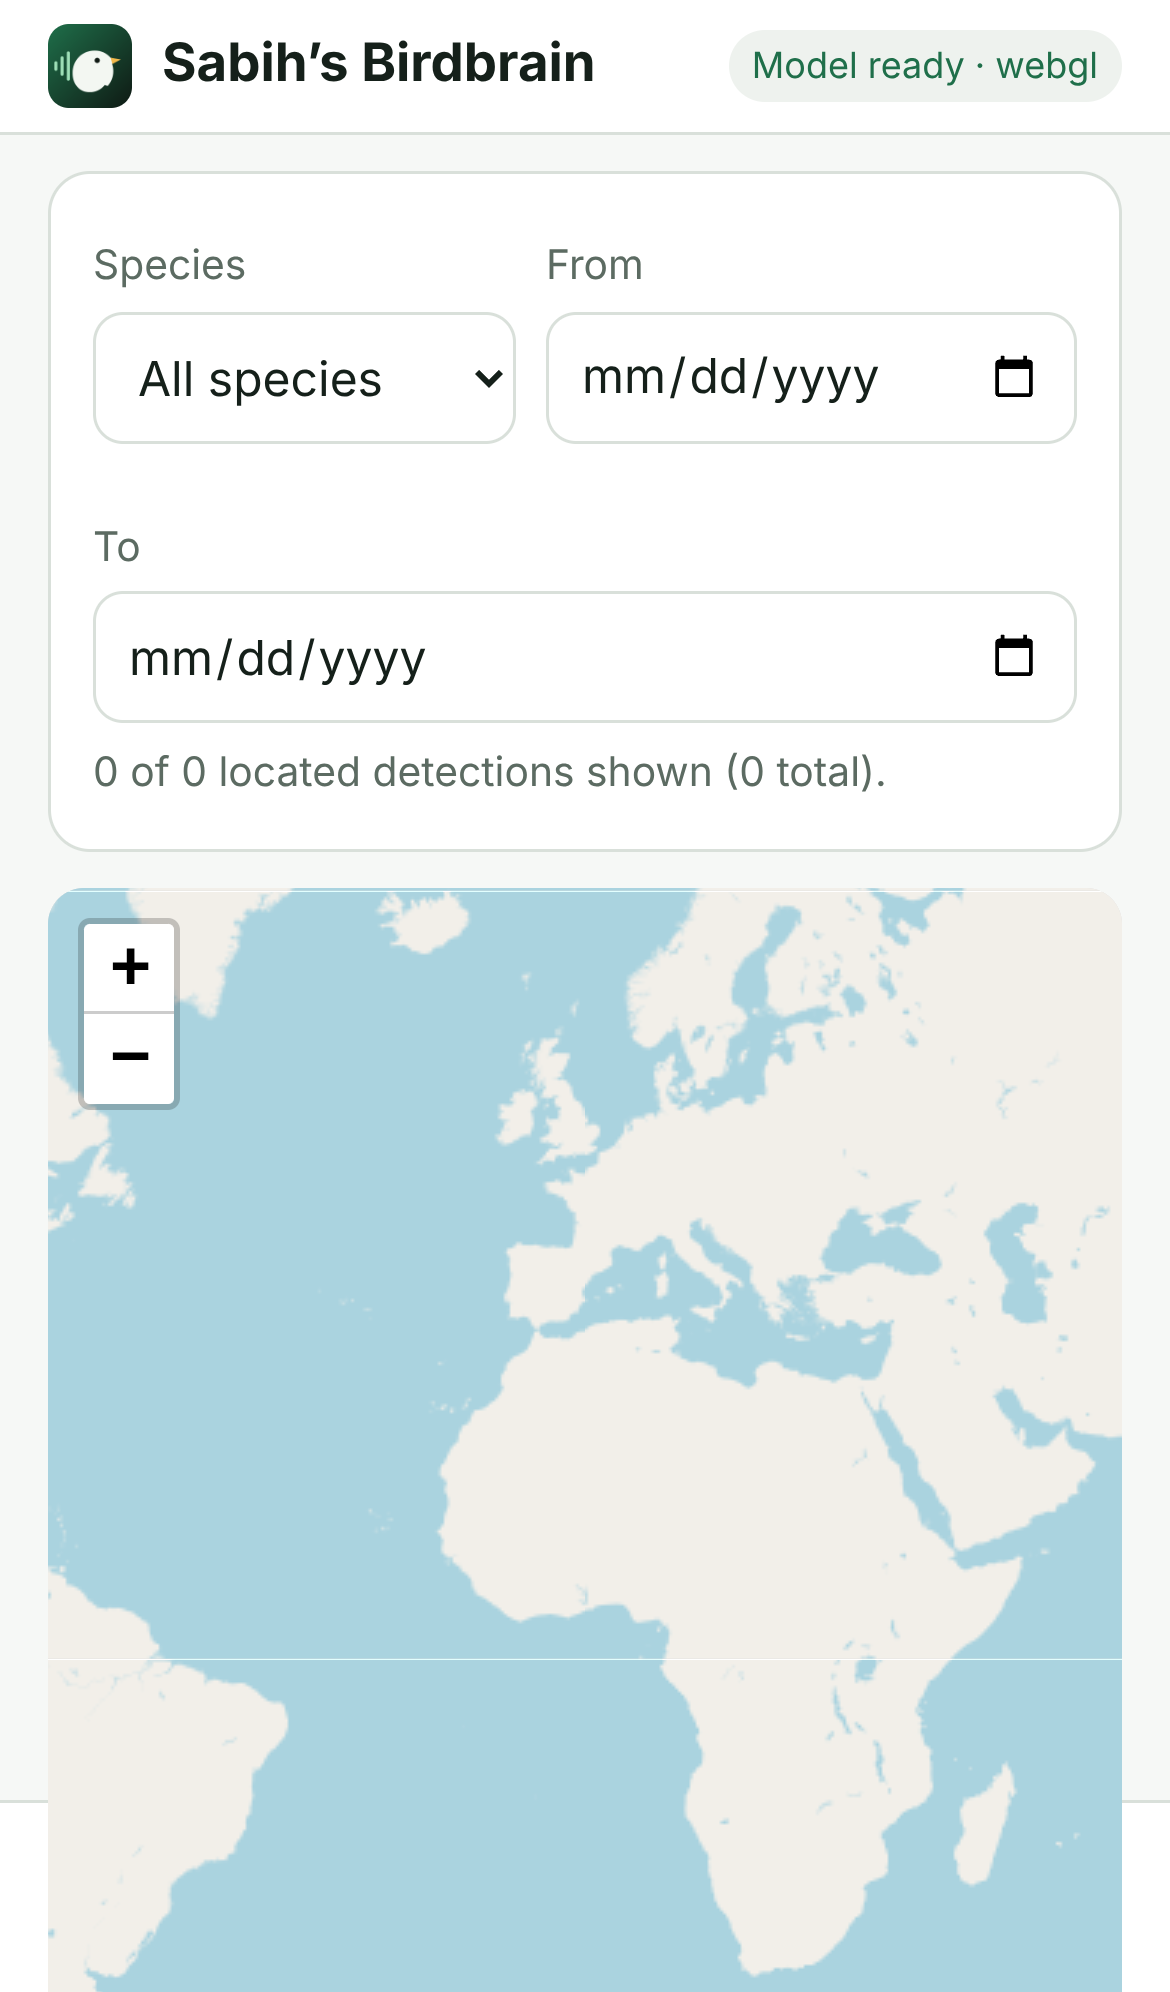
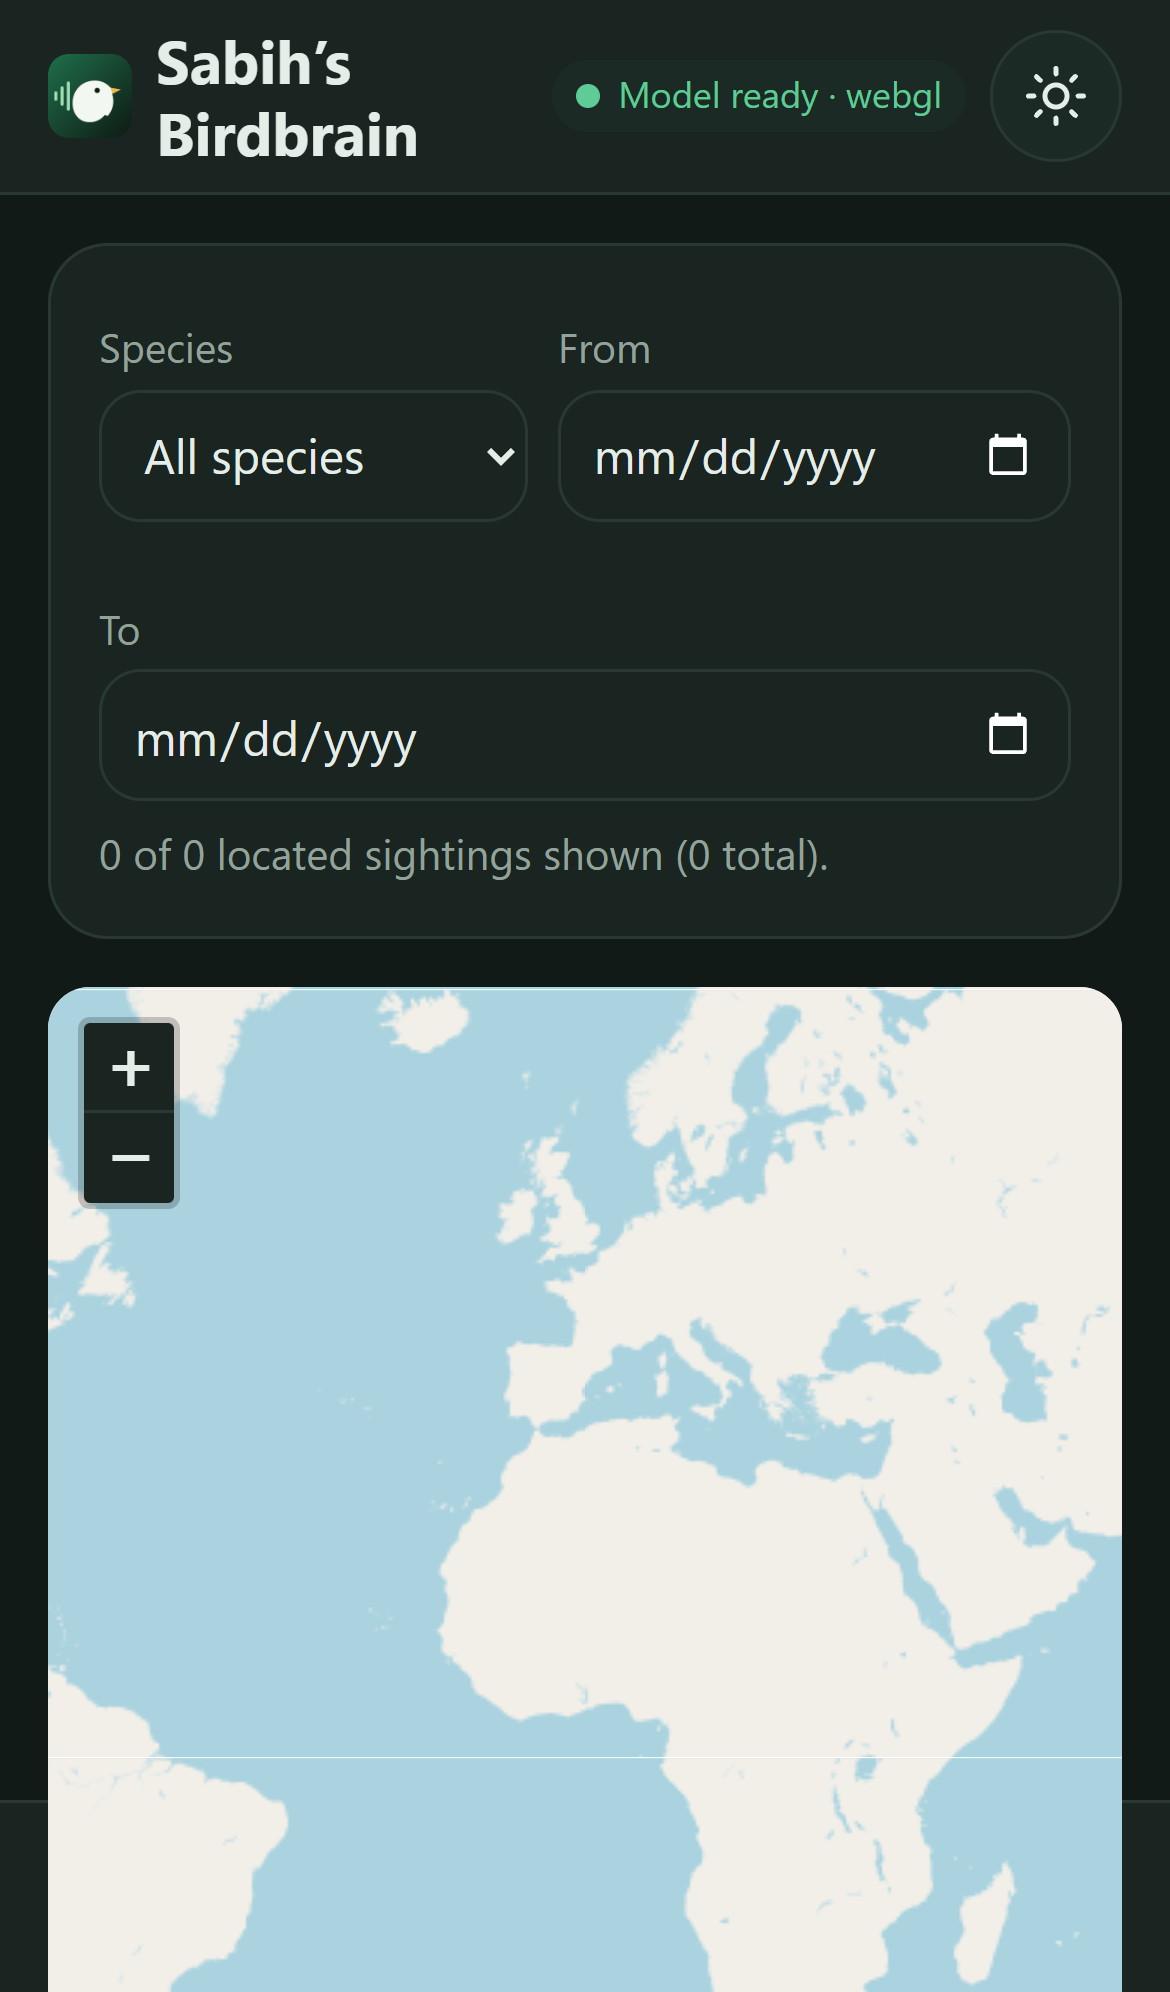
Screenshots: set the app theme per scheme and show the signed-in account rows
The app is dark by default whatever the device prefers, so the "light" shots were
dark. The script now seeds birdbrain.theme.v1, and takes Settings with a cached
member session so the grouped rows are what the README shows.

diff --git a/scripts/screenshots.ts b/scripts/screenshots.ts
@@ -14,6 +14,8 @@ const browser = await chromium.launch({ args: ['--use-gl=angle', '--use-angle=sw
 for (const scheme of ['light', 'dark'] as const) {
   const context = await browser.newContext({ ...devices['iPhone 13'], colorScheme: scheme });
   const page = await context.newPage();
+  // The app is dark by default whatever the device prefers, so set its own theme too.
+  await page.addInitScript((s) => localStorage.setItem('birdbrain.theme.v1', s), scheme);
   await page.goto(BASE);
   await page.getByTestId('model-status').filter({ hasText: 'Model ready' }).waitFor({ timeout: 240_000 });
   await page.getByTestId('demo').click();
@@ -23,10 +25,16 @@ for (const scheme of ['light', 'dark'] as const) {
   await page.goto(`${BASE}#/species/Acanthis%20cabaret`);
   await page.waitForTimeout(2500);
   await page.screenshot({ path: path.join(out, `species-${scheme}.png`) });
-  // Settings in both themes: the grouped account rows, and the pipeline section open on Listen.
+  // Settings in both themes: the grouped account rows (DECISIONS.md #57). They need a signed-in
+  // member, so seed a cached session and keep the API unreachable; the friends panel behind its
+  // collapsed row is the only thing that would have wanted the network.
+  await page.route(/\/v1\//, (route) => route.abort());
+  await page.evaluate(() => localStorage.setItem('birdbrain.auth.v1', JSON.stringify({ token: 'shot', expiresAt: null, user: { id: 'u1', email: 'member@example.com', name: 'Member', status: 'approved', role: 'member' } })));
   await page.goto(`${BASE}#/settings`);
   await page.waitForTimeout(500);
   await page.screenshot({ path: path.join(out, `settings-${scheme}.png`) });
+  await page.evaluate(() => localStorage.removeItem('birdbrain.auth.v1'));
+  await page.unroute(/\/v1\//);
   await page.goto(`${BASE}#/listen`);
   await page.getByTestId('how-it-works').getByText('How it works').click();
   await page.getByTestId('pipeline').getByText('How BirdNET decides').click();
